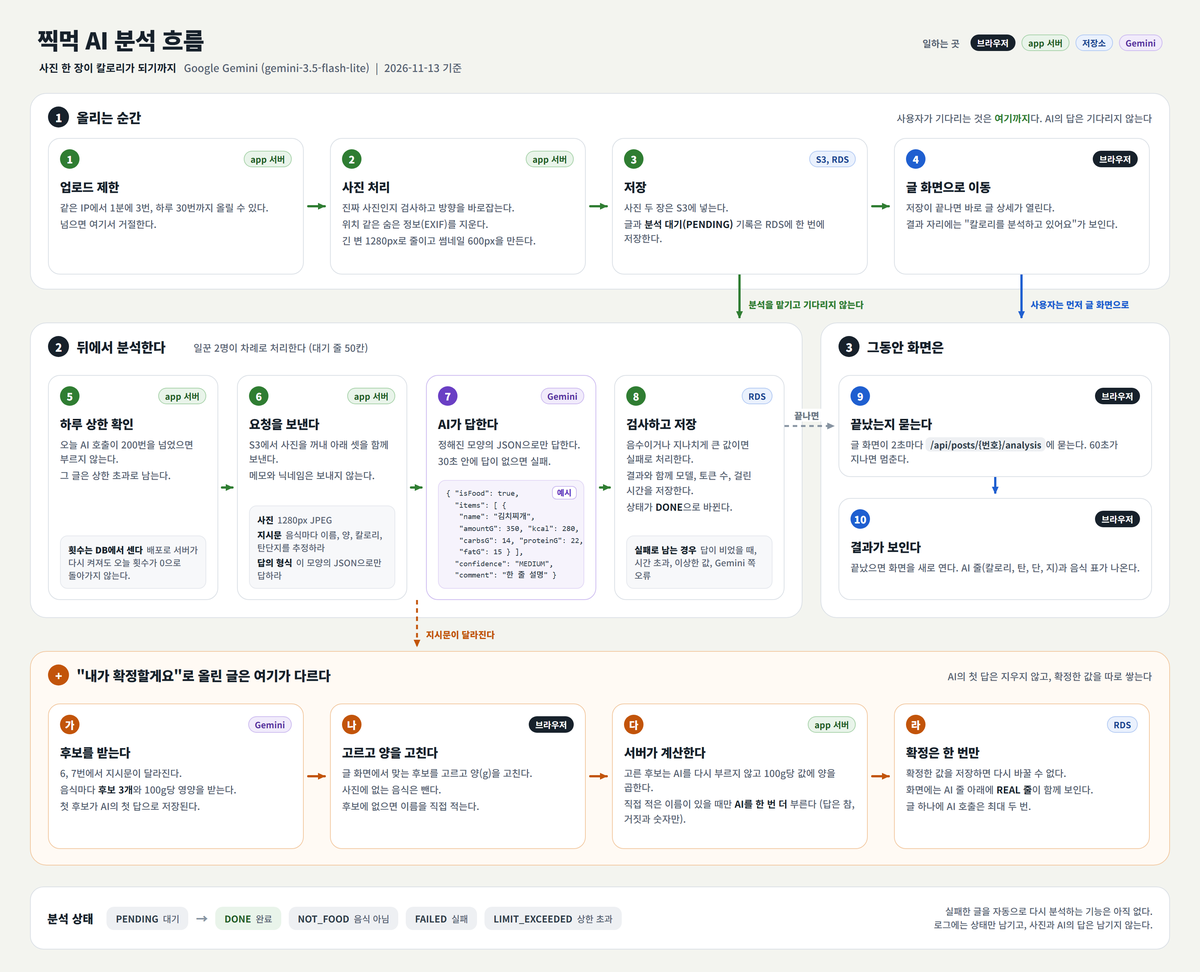
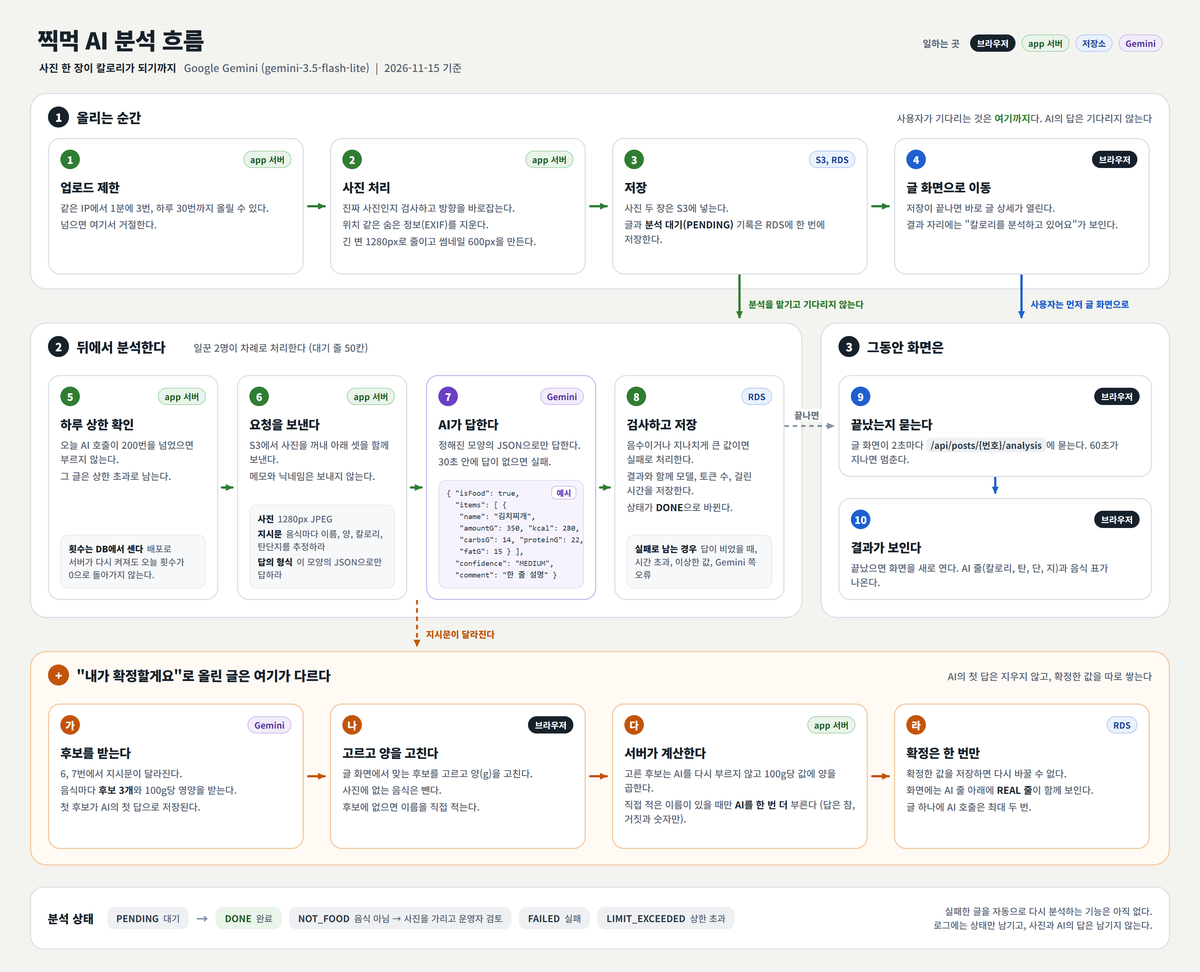
feat: 사진 검토 공지, 기획서와 스프린트 S6 기록, 구조 그림 두 장 (JM-80)

diff --git a/docs/diagrams/site-ia.html b/docs/diagrams/site-ia.html
@@ -74,7 +74,7 @@ code { font-family: "Noto Sans KR", "Malgun Gothic", sans-serif; font-size: 12.2
   <div class="head">
     <div>
       <h1>찍먹 사이트 구조 (IA)</h1>
-      <div class="subtitle"><b>jjikmuk.com</b>화면 10개와 에러 화면. 로그인 없이 닉네임과 비밀번호로 쓴다 &nbsp;|&nbsp; 2026-11-14 기준</div>
+      <div class="subtitle"><b>jjikmuk.com</b>화면 10개와 에러 화면. 로그인 없이 닉네임과 비밀번호로 쓴다 &nbsp;|&nbsp; 2026-11-15 기준</div>
     </div>
     <div class="legend">
       <span><code>/주소</code>화면의 주소</span>
@@ -196,7 +196,7 @@ code { font-family: "Noto Sans KR", "Malgun Gothic", sans-serif; font-size: 12.2
       <div class="chip"><code>/api/posts/{번호}/analysis</code><p><b>분석 상태</b> 상세 화면이 2초마다 끝났는지 묻는다</p></div>
       <div class="chip"><code>/api/posts/{번호}/like</code><p><b>좋아요</b> 화면을 새로 열지 않고 숫자만 올린다</p></div>
       <div class="chip"><code>/api/admin/...</code><p><b>운영자 API</b> 토큰이 있어야 한다. 삭제, 처리 상태와 답변, 통계</p></div>
-      <div class="chip"><code>/admin</code><p><b>관리자 화면</b> 등록한 노트북에서 비밀번호로. 글 번호와 사진을 보고 지운다</p></div>
+      <div class="chip"><code>/admin</code><p><b>관리자 화면</b> 등록한 노트북에서 비밀번호로. 글 번호와 사진을 보고 지운다. AI가 가린 사진은 보고 올린다</p></div>
       <div class="chip"><code>/actuator/health</code><p><b>상태 확인</b> 배포와 모니터링이 서버가 살아 있는지 본다</p></div>
     </div>
     <div class="foot">

diff --git a/docs/diagrams/ai-analysis-flow.html b/docs/diagrams/ai-analysis-flow.html
@@ -68,7 +68,7 @@ h1 { position: absolute; left: 50px; top: 30px; font-size: 31px; font-weight: 80
 <body>
 <div class="stage">
   <h1>찍먹 AI 분석 흐름</h1>
-  <div class="subtitle"><b>사진 한 장이 칼로리가 되기까지</b>Google Gemini (gemini-3.5-flash-lite) &nbsp;|&nbsp; 2026-11-13 기준</div>
+  <div class="subtitle"><b>사진 한 장이 칼로리가 되기까지</b>Google Gemini (gemini-3.5-flash-lite) &nbsp;|&nbsp; 2026-11-15 기준</div>
   <div class="legend">
     <em>일하는 곳</em>
     <span class="w browser">브라우저</span><span class="w app">app 서버</span><span class="w store">저장소</span><span class="w ai">Gemini</span>
@@ -201,7 +201,7 @@ h1 { position: absolute; left: 50px; top: 30px; font-size: 31px; font-weight: 80
     <span class="chip">PENDING<small>대기</small></span>
     <span class="arrow">→</span>
     <span class="chip ok">DONE<small>완료</small></span>
-    <span class="chip">NOT_FOOD<small>음식 아님</small></span>
+    <span class="chip">NOT_FOOD<small>음식 아님 → 사진을 가리고 운영자 검토</small></span>
     <span class="chip">FAILED<small>실패</small></span>
     <span class="chip">LIMIT_EXCEEDED<small>상한 초과</small></span>
     <span class="note">실패한 글을 자동으로 다시 분석하는 기능은 아직 없다.<br>로그에는 상태만 남기고, 사진과 AI의 답은 남기지 않는다.</span>

diff --git a/docs/PLANNING.md b/docs/PLANNING.md
@@ -127,6 +127,7 @@ sequenceDiagram
   - 하루 상한을 넘어 분석하지 못한 건 (`LIMIT_EXCEEDED`, 다음 날)
   - 삭제된 글은 건너뛴다
 - **공급자 교체 가능하게**: `FoodAnalyzer` 인터페이스 뒤에 구현체를 둔다. 무료 → 유료 전환, 공급자 교체가 구현체 추가 + 설정 변경으로 끝난다.
+- **사진 검토 (2026-11-15, JM-80)**: AI가 `NOT_FOOD`로 답한 글은 지우지 않고 사진만 가린다. 피드와 글 화면에는 사진 대신 "관리자가 사진을 검토 중입니다"가 보이고, 서버는 로그 `Post held for review: postId=…`를 한 줄 남긴다. 이 줄이 CloudWatch 지표 필터와 경보를 거쳐 운영자에게 메일로 간다 (16절). 운영자는 관리자 화면 첫 쪽 위의 "검토할 사진"에서 올리거나 삭제한다. 가릴지는 `posts.photo_approved_at`(올린 시각)과 분석 상태로 정해서 "검토 중" 상태 칸을 따로 두지 않는다. AI가 음식이 아니라고 답한 글만 가리고, 분석 중, 실패, 하루 상한 초과는 그대로 보인다. 사진 주소는 화면에 쓰지 않을 뿐이고 파일 이름이 무작위(UUID)라서 따로 막지 않는다
 
 ### 6.2 이미지 전처리와 위치 정보
 
@@ -433,6 +434,7 @@ GitHub (main push) → GitHub Actions → 테스트 → Docker 이미지 빌드 
 | photo_taken_at | DATETIME(6) | nullable, EXIF 촬영 시각 |
 | status | VARCHAR(30) | `ACTIVE` / `DELETED_BY_AUTHOR` / `DELETED_BY_ADMIN`, 인덱스 (status, id) |
 | like_count / view_count | INT NOT NULL DEFAULT 0 | 좋아요 수와 조회수. 숫자만 두고 누가 눌렀는지, 누가 봤는지는 저장하지 않는다. 올릴 때는 UPDATE 한 번으로 DB가 더한다 (2026-11-11, JM-59, JM-72) |
+| photo_approved_at | DATETIME(6) | nullable. 운영자가 사진을 확인하고 올린 시각 (2026-11-15, JM-80). 분석 상태가 `NOT_FOOD`이고 이 값이 비어 있으면 피드와 글 화면에서 사진을 가린다 (6.1절) |
 | ip_hash | VARCHAR(64) | 남용 대응용, 30일 후 NULL |
 | created_at / deleted_at | DATETIME(6) | deleted_at = 상태 변경 시각 |
 
@@ -585,13 +587,14 @@ GitHub (main push) → GitHub Actions → 테스트 → Docker 이미지 빌드 
 | Method | Path | 설명 |
 |---|---|---|
 | POST | `/api/admin/posts/{id}/delete` | 글을 `DELETED_BY_ADMIN`으로. 위치 정보는 작성자 삭제 때와 같이 완전 삭제 → `{"id":12,"status":"DELETED_BY_ADMIN"}` |
+| POST | `/api/admin/posts/{id}/approve` | 사진 검토의 올리기 (JM-80): AI가 음식이 아니라고 봐서 가린 사진을 피드와 글 화면에 보이게 한다 → `{"id":109,"photoHeld":false}`. 가린 글이 아니면(음식으로 본 글, 이미 올린 글) 409 `POST_NOT_HELD` |
 | POST | `/api/admin/comments/{id}/delete` | 댓글 운영자 삭제 |
 | POST | `/api/admin/feedback/{id}/delete` | 피드백 운영자 삭제 |
 | PATCH | `/api/admin/feedback/{id}` | 본문 `{"progress":"DONE","reply":"반영했습니다."}` (둘 중 하나만도 됨). progress = RECEIVED / IN_PROGRESS / DONE / ON_HOLD. 바뀐 피드백 내용을 돌려준다. reply는 보낼 때마다 새 답변으로 **이어서 달린다** (전에 단 답변은 그대로 남는다, 2026-11-13 JM-77). 응답의 `replies`에 지금까지의 답변이 달린 순서대로, 답변 번호(`id`)와 함께 실린다 |
 | POST | `/api/admin/feedback/replies/{id}/delete` | 잘못 단 답변 지우기 (JM-77). 주소의 id는 피드백 번호가 아니라 **답변 번호**다. `DELETED_BY_ADMIN`으로 바뀌고 화면에서 그 답변만 빠진다. 없는 번호거나 이미 지운 답변이면 404 `FEEDBACK_REPLY_NOT_FOUND` |
 | GET | `/api/admin/stats?days=7` | 운영 통계 (JM-68). days는 오늘을 포함한 기간(안 주면 7, 1~90). 날짜별 글, 댓글, 피드백 수(한국 날짜, 삭제 포함), AI 분석 상태별 건수와 성공률, 평균과 p95 응답 시간, 토큰 합계, 오늘 AI 호출 수와 상한, 위치 수집률, 피드백 처리 상태별 수. 개인을 알아볼 수 있는 값은 없다 |
 
-운영자 행동은 모두 로그에 남는다 (`Admin deleted post: postId=…`, `Admin updated feedback: …`). 토큰이 틀린 시도도 경고 로그로 남는다.
+운영자 행동은 모두 로그에 남는다 (`Admin deleted post: postId=…`, `Admin approved held photo: postId=…`, `Admin updated feedback: …`). 토큰이 틀린 시도도 경고 로그로 남는다.
 
 **관리자 화면 (JM-82)** — 브라우저로 보고 누르는 운영 화면. 어디에도 링크하지 않고, 검색 엔진에 나오지 않게 `noindex`. 서버 `.env`의 `APP_ADMIN_PASSWORD`가 비어 있으면 모든 주소가 404다. 쓰는 법은 16절
 
@@ -599,8 +602,9 @@ GitHub (main push) → GitHub Actions → 테스트 → Docker 이미지 빌드 
 |---|---|---|
 | GET, POST | `/admin/login` | 등록한 노트북 브라우저에서 관리자 비밀번호. 아직 등록한 기기가 없으면 비밀번호가 맞을 때 등록 화면으로. 등록한 기기가 있는데 이 브라우저가 그 기기가 아니면 비밀번호 칸 없이 "관리자 화면은 등록한 기기에서만 열립니다."(403)이고, 보낸 비밀번호도 확인하지 않는다. 같은 IP에서 15분 안에 5번 틀리면 그 15분 동안 막힘(429) |
 | GET, POST | `/admin/setup` | 처음 한 번: 이 브라우저의 이름(예: Windows, Chrome)을 보여 주고, 누르면 이 브라우저를 관리자 기기로 등록하고 들어간다. 기기 쿠키 `jm_admin_device`는 1년, `/admin` 주소에만 보내고 자바스크립트로 읽을 수 없다(HttpOnly, SameSite=Lax, https에서는 Secure). 비밀번호가 맞은 뒤 10분 동안, 아직 아무 기기도 등록하지 않았을 때만 열린다 |
-| GET | `/admin/posts?page=2` | 글 목록: 피드와 같은 순서(최신순 24개씩)로 글 번호, 사진, 닉네임, 시각, 조회, 좋아요, 댓글 수, AI 결과, 메모. 번호를 누르면 글 화면, 사진을 누르면 큰 사진이 새 탭으로 |
+| GET | `/admin/posts?page=2` | 글 목록: 피드와 같은 순서(최신순 24개씩)로 글 번호, 사진, 닉네임, 시각, 조회, 좋아요, 댓글 수, AI 결과, 메모. 번호를 누르면 글 화면, 사진을 누르면 큰 사진이 새 탭으로. 첫 쪽 위에는 사진을 가린 글을 "검토할 사진 N개"로 따로 모아 올리기와 삭제 버튼을 둔다 (JM-80) |
 | POST | `/admin/posts/{id}/delete` | 운영자 삭제 (운영자 API의 글 삭제와 같다). 폼에 숨긴 CSRF 값이 있어야 한다 |
+| POST | `/admin/posts/{id}/approve` | 사진 검토의 올리기 (JM-80, 운영자 API의 사진 올리기와 같다). 가린 글이 아니면 409 에러 화면. 폼에 숨긴 CSRF 값이 있어야 한다 |
 | POST | `/admin/logout` | 로그아웃 |
 
 로그인하면 2시간 동안 관리자로 기억한다(`app.admin.session-minutes`). 로그인할 때 세션 번호를 새로 받는다. 로그: `Admin login succeeded`, `Admin login failed`, `Admin login blocked`, `Admin login rejected: unknown device`(등록하지 않은 브라우저), `Admin device registered`, `Admin logged out` (IP는 해시로만, 기기 쿠키 값은 남기지 않는다).
@@ -727,6 +731,7 @@ S2-2 실제 확인 (2026-11-02): 개발 서버와 Docker 배포 구성 모두에
     ```
     TOKEN=$(grep ^APP_ADMIN_TOKEN= .env | cut -d= -f2)
     curl -s -X POST https://jjikmuk.com/api/admin/posts/<글 번호>/delete -H "X-Admin-Token: $TOKEN"
+    curl -s -X POST https://jjikmuk.com/api/admin/posts/<글 번호>/approve -H "X-Admin-Token: $TOKEN"
     curl -s -X POST https://jjikmuk.com/api/admin/comments/<댓글 번호>/delete -H "X-Admin-Token: $TOKEN"
     curl -s -X PATCH https://jjikmuk.com/api/admin/feedback/1 -H "X-Admin-Token: $TOKEN" -H "Content-Type: application/json" -d '{"progress":"DONE","reply":"반영했습니다. 피드백 감사합니다 :)"}'
     curl -s -X POST https://jjikmuk.com/api/admin/feedback/replies/<답변 번호>/delete -H "X-Admin-Token: $TOKEN"
@@ -740,10 +745,12 @@ S2-2 실제 확인 (2026-11-02): 개발 서버와 Docker 배포 구성 모두에
 - **관리자 화면 (JM-82)**: `https://jjikmuk.com/admin`. 처음 등록한 노트북의 브라우저에서만, 관리자 비밀번호로 들어가서 글 번호와 사진을 보고 지운다. 다른 브라우저나 휴대폰에서는 비밀번호를 알아도 비밀번호 칸이 열리지 않는다. 운영자 API의 열쇠와는 따로라서, 그 열쇠는 지금처럼 서버 밖으로 나가지 않는다
   - 처음 한 번 (서버): ① 비밀번호 관리자에서 긴 무작위 비밀번호를 만들어 저장한다 ② 서버의 `deploy/.env`에 `APP_ADMIN_PASSWORD=그 비밀번호` 한 줄을 더한다 (`nano .env`) ③ `docker compose up -d app` (환경 변수가 바뀌어 app만 새로 뜬다). 비밀번호가 없으면 관리자 화면은 404다
   - 처음 한 번 (노트북): 서버 설정을 마치면 바로, 앞으로 쓸 노트북의 브라우저로 `/admin` → 비밀번호 → 등록 화면에 나온 브라우저 이름(예: Windows, Chrome)을 확인하고 "이 브라우저를 관리자 기기로 등록" → 글 목록으로 들어간다. 다음부터는 이 브라우저에서 비밀번호만 넣는다. 등록은 한 기기뿐이라 처음 등록한 브라우저가 관리자 기기가 된다
-  - 노트북이나 브라우저를 바꿨을 때, 그 브라우저의 쿠키를 지웠을 때: 서버에서 DB의 `admin_device` 줄을 지우면(`delete from admin_device;`, 접속은 10절의 mysql 컨테이너 방식) 다음 로그인 때 다시 등록 화면이 나온다. 같은 노트북이라도 다른 브라우저(예: Chrome과 Edge)는 다른 기기로 본다
+  - 노트북이나 브라우저를 바꿨을 때, 그 브라우저의 쿠키를 지웠을 때: 서버에서 DB의 `admin_device` 줄을 지우면(서버에서 `cd ~/personal_project/deploy` 다음 `docker run --rm --env-file .env mysql:8.4 sh -c 'MYSQL_PWD="$MYSQL_PASSWORD" mysql -h "$DB_HOST" -u macros macros -e "delete from admin_device;"'`. DB 비밀번호는 컨테이너 안에서 `.env`로만 읽어 화면에 나오지 않는다) 다음 로그인 때 다시 등록 화면이 나온다. 같은 노트북이라도 다른 브라우저(예: Chrome과 Edge)는 다른 기기로 본다
   - 노트북을 잃어버렸을 때: `admin_device` 줄을 지우고 비밀번호도 바꾼다 (브라우저에 비밀번호를 저장해 두었다면 그 노트북으로 들어올 수 있다)
   - 비밀번호가 샜다고 의심되면: `.env`의 `APP_ADMIN_PASSWORD`를 새 값으로 바꾸고 `docker compose up -d app`. 등록한 노트북이 아니면 비밀번호만으로는 못 들어오지만 바로 바꾼다
   - 로그인 알림 메일 (선택): CloudWatch 로그 그룹 `/macros/server`에 지표 필터 `{ $.message = "Admin login succeeded*" }`를 만들고 경보를 걸어 SNS 주제 `macros-alerts`로 보내면, 관리자로 들어올 때마다 메일이 온다 (에러 경보와 같은 방법, 경보 10개까지 무료)
+  - 사진 검토 (JM-80): AI가 음식이 아니라고 본 글은 피드와 글 화면에서 사진이 가려지고 "관리자가 사진을 검토 중입니다"가 보인다. 관리자 화면 첫 쪽 위의 "검토할 사진 N개"에서 사진을 눌러 크게 보고, 음식이거나 올려도 괜찮은 사진이면 "올리기"(피드에 사진이 보인다), 아니면 "삭제". 관리자 화면을 쓸 수 없을 때는 위 상자의 approve 줄로 올린다 (가린 글은 피드에서 "관리자가 사진을 검토 중입니다" 칸으로 보이고, 누르면 주소에 글 번호가 있다)
+  - 사진 검토 알림 메일 (처음 한 번, AWS 콘솔): CloudWatch → 로그 그룹 `/macros/server` → 지표 필터 `photo-held`(패턴 `{ $.message = "Post held for review*" }`, 지표 `macros/PhotoHeld`, 값 1, 기본값 0) → 그 지표로 경보 `macros-photo-held`(합계, 5분, 1 이상) → SNS 주제 `macros-alerts`(에러 경보와 같은 주제). 경보는 상태가 바뀔 때 한 번 메일을 보내므로, 5분 안에 여러 장이 걸려도 메일은 한 통이다. 메일이 오면 관리자 화면을 연다. 로그 문구는 `FoodAnalysisService`에 있고, 바꾸면 이 패턴도 바꾼다
   - 내 PC에서 직접 부를 수도 있다 (Git Bash에서 같은 curl, 열쇠는 직접 입력). PowerShell은 한글 본문이 깨질 수 있어 Git Bash를 쓴다
 - **장애 대응 (런북, S4-6)**: 알림 두 종류가 메일로 온다. 받으면 아래 순서로 본다
   - **"Down" (UptimeRobot)**: ① 브라우저로 `https://jjikmuk.com` 열어 보기 ② SSH → `cd ~/personal_project/deploy && docker compose ps` ③ app이 죽어 있으면 `docker compose logs app --tail 100`으로 원인 보고 `docker compose up -d`로 재시작 ④ SSH 자체가 안 되면 EC2 콘솔에서 인스턴스 상태 확인 → 재부팅 (재부팅하면 1분 뒤 컨테이너가 스스로 올라온다) ⑤ 끝나면 `troubleshooting/`에 기록
@@ -840,6 +847,7 @@ S2-2 실제 확인 (2026-11-02): 개발 서버와 Docker 배포 구성 모두에
 | 고쳐 쓰는 AI | 4.2절에서 제외했던 "분석 결과 사용자 보정"을 **올릴 때 고르는 확정 방식**으로 추가한다 (AI가 바로 확정 또는 내가 보고 확정). AI의 답은 지우지 않고 확정한 값을 따로 저장해서 둘을 비교할 수 있게 한다. 확정은 글마다 한 번 (계속 바꿀 수 있으면 나중에 데이터로 쓰기 어렵다). 후보에 없으면 이름을 직접 적고 그때만 AI를 한 번 더 부른다 → 글 하나에 AI의 답은 최대 두 번. 음식이 아닌 이름은 받지 않고, 음식이지만 사진과 다른 것은 받되 표시해 둔다. 방금 올린 브라우저는 비밀번호 없이 확정한다 (세션에 글 번호만). 화면은 AI의 값과 확정한 값을 열을 맞춘 두 줄로 함께 보여 주고 꼬리표는 "AI"와 "REAL". 운영자 결정, 지인 피드백 6번의 AI 정확성 (6.5절, 14절) | 2026-11-13 |
 | 목록의 번호 | 공지와 피드백 목록의 맨 왼쪽에 글의 번호(id)를 그대로 보여 준다. 화면용 일련번호를 따로 매기지 않는다: 주소와 운영자 작업에서 쓰는 번호와 같아야 헷갈리지 않는다. 삭제된 글은 줄을 남겨 번호와 "삭제된 피드백입니다." 또는 "삭제된 공지입니다."만 보여 준다 (번호와 자리가 당겨지지 않게). 삭제된 글의 내용은 내보내지 않고 상세는 404 그대로. 운영자 요청 (5.1절, 14절) | 2026-11-13 |
 | 운영자 답변 | 피드백 하나에 답변을 여러 번 달 수 있고, 달린 순서대로 모두 보여 준다 (전에는 한 칸이라 다시 달면 덮어써져 기록이 남지 않았다). 답변은 새 테이블 `feedback_replies`에 한 줄씩 쌓는다. 잘못 단 답변은 고치지 않고 지운 뒤 새로 단다 (삭제 = 상태 변경). 예전 답변은 운영 DB에 SQL을 손으로 돌리지 않고 **서버가 켜질 때 도는 코드**로 옮겼다: 배포와 같은 길로 가서 테스트와 검토를 거치고, 아직 옮기지 않은 글만 골라서 서버가 여러 번 켜져도 한 번만 옮겨지고, 실패해도 서버는 켜진다. 덮어써져서 DB에 없던 답변 3개는 그때 게시판을 읽어 둔 작업 기록에서 되찾아 함께 넣었다. 답변 글은 문어체로 쓰고 한 글의 첫 답변은 "피드백 감사합니다 :)"로 끝낸다 (운영자 규칙, 16절): 해요체였던 답변 둘은 옮기면서 고쳐 넣었다. 옮기는 코드(`FeedbackReplyBackfill`)와 예전 칸(`admin_reply`, `replied_at`)은 운영 DB에서 옮겨진 것을 확인한 뒤에 지운다. 운영자 요청 (12절, 13절, 14절, 16절) | 2026-11-13 |
+| 사진 검토 | AI가 음식이 아니라고 본(`NOT_FOOD`) 글은 지우지 않고 사진만 가린다. 피드와 글 화면에 "관리자가 사진을 검토 중입니다", 운영자에게 메일(로그 한 줄 → CloudWatch 지표 필터 → 경보 → SNS. 앱에 메일 기능을 넣지 않는다), 관리자 화면 첫 쪽 위에서 올리거나 삭제 (운영자 결정, JM-80. 발표 중 음식이 아닌 사진이 올라와 지운 일과 지인 피드백 12번 "음식이 아니면 글 생성을 막자"). 글을 막지 않고 가리는 이유: AI가 음식을 잘못 볼 수도 있어서 운영자가 마지막에 본다. 상태 칸 대신 `photo_approved_at`과 분석 상태로 정한다. 분석 중, 실패, 하루 상한 초과는 가리지 않는다 | 2026-11-15 |
 
 **미정**
 
@@ -854,6 +862,7 @@ S2-2 실제 확인 (2026-11-02): 개발 서버와 Docker 배포 구성 모두에
 
 ## 변경 이력
 
+- 2026-11-15 — 사진 검토: AI가 음식이 아니라고 본 글은 피드와 글 화면에서 사진을 가리고 "관리자가 사진을 검토 중입니다"를 보여 준다. 운영자는 메일(CloudWatch 경보)을 받고 관리자 화면 첫 쪽 위의 "검토할 사진"에서 올리거나 삭제한다. 운영자 API에도 사진 올리기. 16절의 관리자 기기 지우기 명령을 바로 쓸 수 있게 적었다 (JM-80, 발표 중 발견, 지인 피드백 12번, 6.1절, 12절, 13절, 16절, 18절)
 - 2026-11-14 — 관리자 화면(`/admin`): 처음 등록한 노트북 브라우저에서만 관리자 비밀번호로 들어가고, 글 목록에서 번호와 사진을 보고 지운다. 첫 안의 휴대폰 인증 앱(6자리)은 운영자 결정으로 뺐다 (JM-82, 운영자 요청, 9절, 12절, 13절, 14절, 16절, 18절)
 - 2026-11-13 — 업로드 한도를 브라우저마다 1분 5번, 하루 30번으로 세고, IP는 하루 200번(1분 제한 없음), 서비스 전체는 하루 500개로 바꿈. 같은 와이파이의 여러 사람이 한도 하나를 나눠 쓰다 막히던 문제. AI 하루 분석 상한도 200건에서 500건으로 맞춤 (JM-79, 발표 중 발견, 6.4절, 7절, 18절)
 - 2026-11-13 — 구조 그림 네 장(배포 아키텍처, 자원 지도, 사이트 IA, AI 분석 흐름)을 `docs/diagrams`에 원본 HTML과 함께 두고 6절, 10절, 14절에서 보여 준다 (JM-78, 운영자 요청)

diff --git a/docs/SPRINTS.md b/docs/SPRINTS.md
@@ -278,7 +278,7 @@
 - **Try**: 스프린트를 시작할 때 "이번에 할 것"을 세 개 안쪽으로 정하고, 중간에 들어온 요청은 급한 것이 아니면 다음 스프린트 후보로 쌓는다. 화면 검토는 배포 전에 로컬에서 직접 눌러 보는 것으로 끝내고 PR은 한 번에 머지한다 (JM-53은 눌러 보면서 두 번 고쳤다. 사진만 봐서는 나오지 않던 의견이었다). 무중단 배포(JM-62)를 다음 스프린트 후보에 올린다. 개인정보를 쓰는 기능은 만들기 전에 처리방침의 목적 문구부터 본다. 다음 큰 일감은 만들기 전에 Jira 이슈와 기획서 변경부터 쓴다.
 
 ### 다음으로 넘긴 것
-- 지인 피드백 (답변만 달아 둠): JM-51 마이페이지에서 하루 총 섭취 칼로리 보기, JM-52 검색, JM-54 커뮤니티 공간, JM-55 AI 정확성, JM-56 사진 여러 장
+- 지인 피드백 (답변만 달아 둠): JM-51 마이페이지에서 하루 총 섭취 칼로리 보기, JM-52 검색, JM-54 커뮤니티 공간, JM-55 AI 정확성, JM-56 사진 여러 장. 11-13에 들어온 것: JM-83 음식 카테고리별로 보기 (피드백 11번, 13번)
 - 운영: JM-62 배포할 때 20초 끊김 없애기, JM-69 공개 통계 페이지, JM-70 인증서 교체 (2027-05-21까지)
 - 다음 방향 (11-11 운영자 결정, 구체화부터): AI가 후보를 내고 사용자가 골라 고쳐서 확정하는 분석. 올릴 때 자동 확정과 사용자 확정 중에 고른다. JM-55의 답이기도 하다
 - 정하지 않은 것: 방문자 수 세기(접속 IP를 쓰려면 처리방침을 바꾸고 7일 전에 알려야 한다), 글 상세와 댓글 날짜에 연도 넣기, 만족도 묻기
@@ -306,6 +306,7 @@
 | PR #39 | JM-78 | 구조 그림 네 장 (운영자 요청): 배포 아키텍처(코드가 서버까지 가는 길, 요청이 지나가는 길), 자원 지도(EC2, RDS, S3 등에 무엇이 있는지, 비밀값의 위치), 사이트 IA(화면 10개와 에러 화면), AI 분석 흐름(사진이 칼로리가 되기까지). `docs/diagrams`에 그림(PNG)과 원본(HTML)을 두고 기획서 6절, 10절, 14절에서 보여 준다. 그림의 값은 코드, 설정 파일, 서버 구성에서 확인했고 비밀값은 이름만 적었다. 사이트 변경 없음 |
 | PR #40 | JM-79 | 같은 와이파이에서 여러 사람이 올리면 업로드가 막히던 문제 (2026-11-13 발표 중 발견, 약 20명이 사용). 업로드 한도를 IP마다(1분 3번, 하루 30번)에서 브라우저(세션 쿠키)마다 1분 5번, 하루 30번으로 바꾸고, IP는 하루 200번(1분 제한 없음), 서비스 전체는 하루 500개(DB에서 셈)로. AI 하루 분석 상한도 200건에서 500건으로 맞춰 올라온 사진은 모두 분석되게 (하루 최대 약 0.6달러로 추정). 숫자는 운영자 결정. 세는 규칙은 `UploadLimiter`로 떼어 서버 없이 도는 테스트 7개로 확인 (같은 와이파이의 20명, 하루 상한, 한국 자정, 막힌 시도는 세지 않음). 공지 14번. 테스트 219개에서 227개로 |
 | PR #41 | JM-82 | 관리자 화면 (운영자 요청: 피드의 글이 몇 번인지 볼 방법이 없어 지울 글을 닉네임과 시각으로 설명해야 했다). `/admin`에 관리자 비밀번호(서버 `.env`의 `APP_ADMIN_PASSWORD`)로 들어가되, 처음 등록한 노트북 브라우저에서만 열린다. 처음 비밀번호를 맞히면 등록 화면이 나오고, 등록하면 그 브라우저에 1년짜리 기기 쿠키(자바스크립트로 못 읽고 `/admin`에만 보냄)가 심기고 DB `admin_device`에는 그 값의 해시만 남는다. 등록한 뒤 다른 브라우저에는 비밀번호 칸 없이 "등록한 기기에서만 열립니다"(403). 같은 IP 15분 5번 틀리면 막힘, 로그인 때 세션 번호 교체, 폼마다 CSRF 값, 2시간 뒤 다시 로그인. 글 목록은 피드와 같은 순서로 번호, 사진, 닉네임, 시각, 숫자, AI 결과, 메모와 삭제 버튼. 운영자 검토 한 번: 첫 안은 비밀번호와 휴대폰 인증 앱의 6자리(TOTP, QR로 등록)였는데, 인증 앱까지는 하지 말고 노트북에서만 들어가게 해 달라는 결정으로 바꿨다(둘째 안). 로컬에서 노트북 역할의 브라우저로 등록, 목록, 로그아웃, 다시 로그인을 거치고, 새 브라우저가 막히는 것까지 확인. 구조 그림 두 장(자원 지도, 사이트 IA)에 새 테이블, 비밀값, 주소를 더했다. 테스트 227개에서 235개로 |
+| PR #42 | JM-80 | 사진 검토 (발표 중 음식이 아닌 사진이 올라와 운영자 API로 지운 일, 지인 피드백 12번 "음식이 아니면 글 생성을 막자"). AI가 음식이 아니라고 본 글은 지우지 않고 사진만 가린다: 피드와 글 화면에 사진 대신 "관리자가 사진을 검토 중입니다", 서버는 로그 `Post held for review` 한 줄(CloudWatch 지표 필터와 경보로 운영자 메일, 설정은 기획서 16절), 관리자 화면 첫 쪽 위에 "검토할 사진"을 모아 올리기와 삭제. 운영자 API에도 사진 올리기. 가릴지는 `posts.photo_approved_at`과 분석 상태로 정해서 상태 칸을 따로 두지 않았다. 배포하면 그때 피드에 보이던 음식 아님 글 7개(11-15 확인)도 바로 가려진다. 구조 그림 두 장(AI 분석 흐름, 사이트 IA)에 사진 검토를 더하고, 기획서 16절의 관리자 기기 지우기 명령과 `.env.example`의 관리자 비밀번호 줄을 채웠다. 테스트 235개에서 241개로 |
 
 ### 만난 문제
 | 문제 | 원인 | 기록 |
@@ -326,3 +327,4 @@
 - 답변 글의 말투: 정해 둔 것이 없어 해요체와 합니다체가 섞임 → 문어체로 쓰고, 한 글의 첫 답변은 "피드백 감사합니다 :)"로 끝냄 (JM-77, 운영자)
 - 업로드 한도: IP마다 1분 3번, 하루 30번 → 브라우저마다 1분 5번, 하루 30번 + IP 하루 200번 + 전체 하루 500개 (JM-79, 발표 중 발견)
 - 운영자 기능: 화면 없이 API만 → 관리자 화면 더함 (등록한 노트북 브라우저에서만 비밀번호로, JM-82. 휴대폰 인증 앱은 보류). API 열쇠는 그대로 서버에만
+- 음식이 아닌 사진: 피드에 그대로 보이고 칼로리 칸만 비움 → 사진을 가리고 운영자가 확인해 올리거나 삭제, 운영자에게 메일 (JM-80, 운영자 결정)
